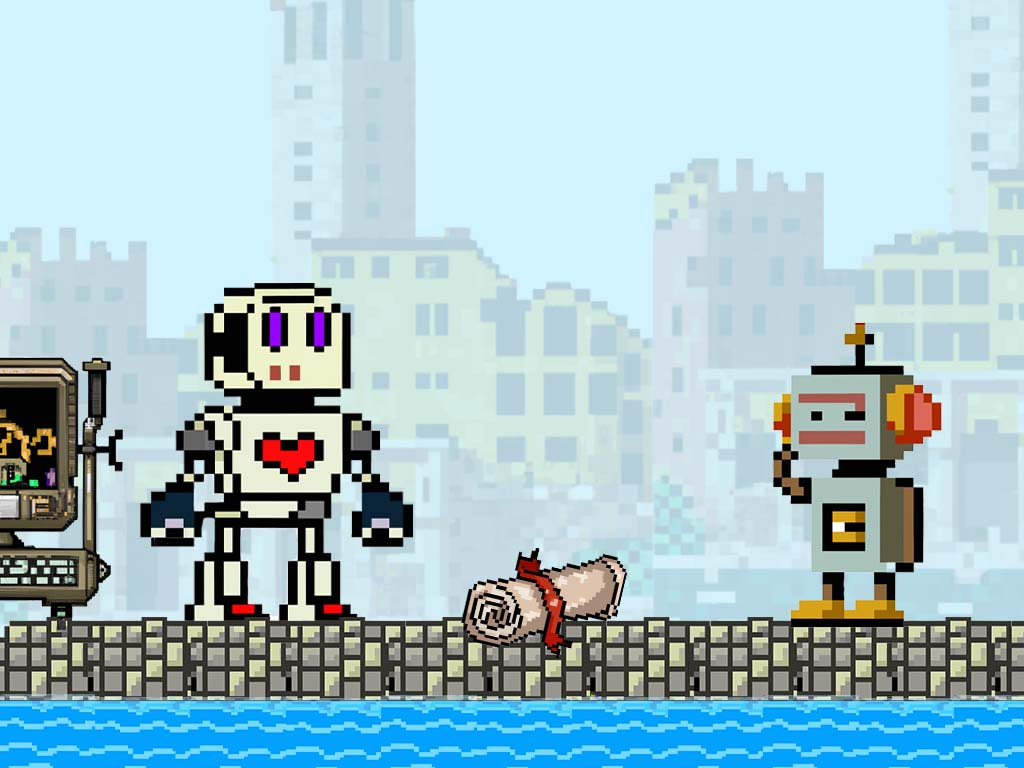
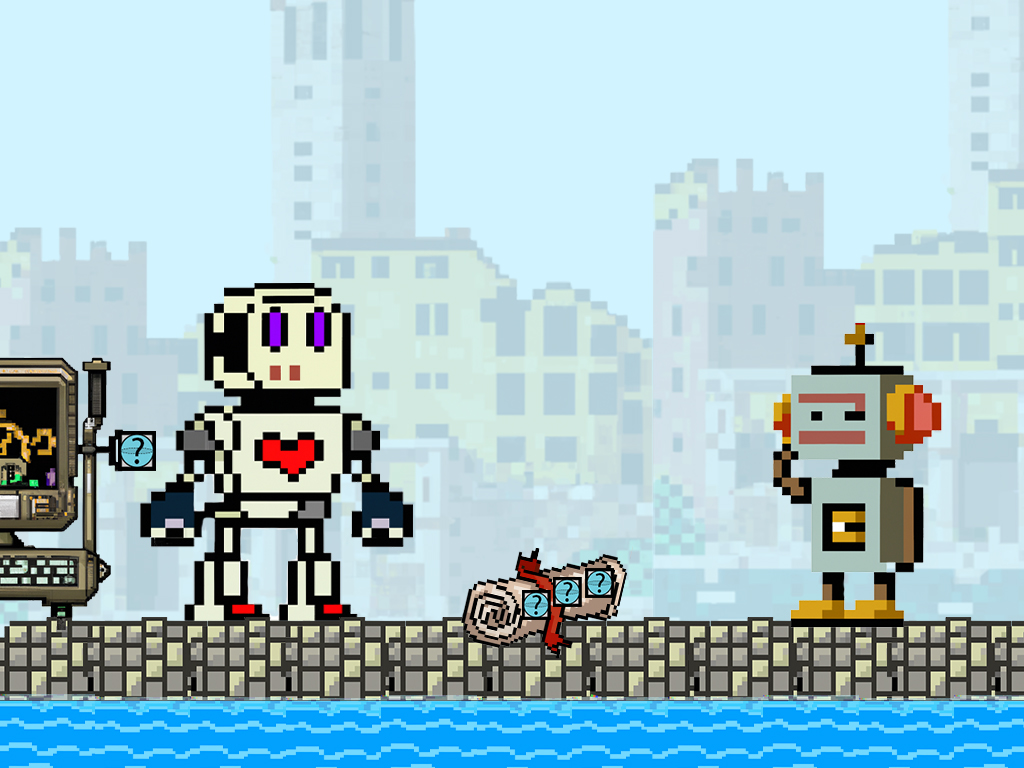
bugs, story, pics, minmax bit global

diff --git a/assets/scenes/story_0.py b/assets/scenes/story_0.py
@@ -46,9 +46,8 @@ class Story_0(Story):
         # need to move this to phase 0
         globals.to_encrypt = random.choice(globals.letters)
         self.story_text.append(globals.to_encrypt)
-        self.story_text.append("We each need to create identical cryptography keys, using the BB84 protocol")
-        self.story_text.append("Only then can I safely encrypt the message")
-        self.story_text.append("How many random classical bits and bases should I start with?")
+        self.story_text.append("We need the same key to encrypt and decrypt this message.")
+        self.story_text.append("The more secure the key, the better. Our love must remain a secret.")
 
 
 

diff --git a/globals.py b/globals.py
@@ -14,8 +14,8 @@ default_score_font = 28
 
 # =================== GAME SETTINGS ========================
 
-minBit = 1          # total min bit selection
-maxBit = 13     # total max bit selection
+minBit = 5          # total min bit selection
+maxBit = 16    # total max bit selection
 currentBit = 5
 
 showConfig = True   # to show the keyboard guide
@@ -23,7 +23,7 @@ showConfig = True   # to show the keyboard guide
 
 #testing = True      # flag for testing or not
 testing = False
-phase = 1         # config for setting game phases
+phase = 3        # config for setting game phases
 
 # =========== GAME SETTINGS FOR NEW GAME ======================
 

diff --git a/assets/scenes/games_3.py b/assets/scenes/games_3.py
@@ -72,6 +72,8 @@ class Games_3(Games):
             self.no_hides = 2
         elif self.numberofbit <= 14:
             self.no_hides = 3
+        else:
+            self.no_hides = 4
 
         self.hides = []
         self.generate_hides()
